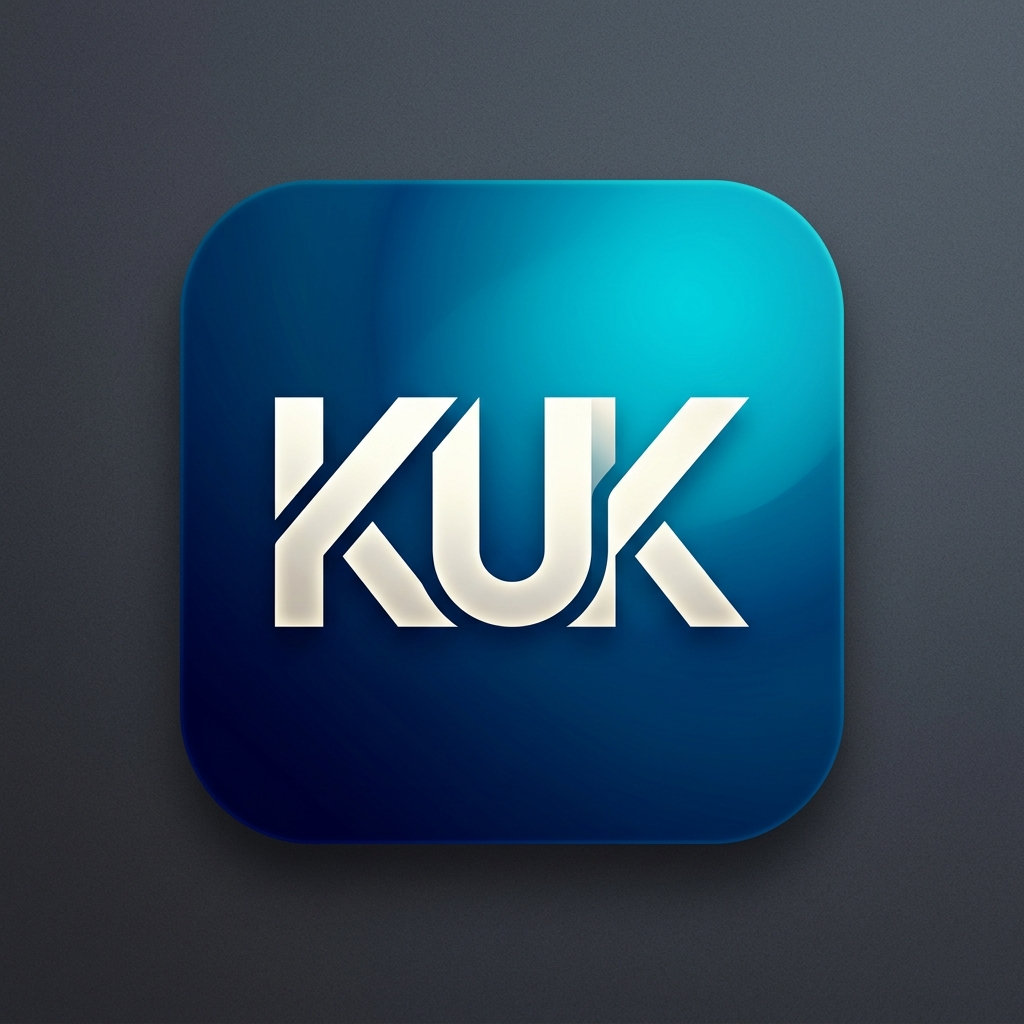
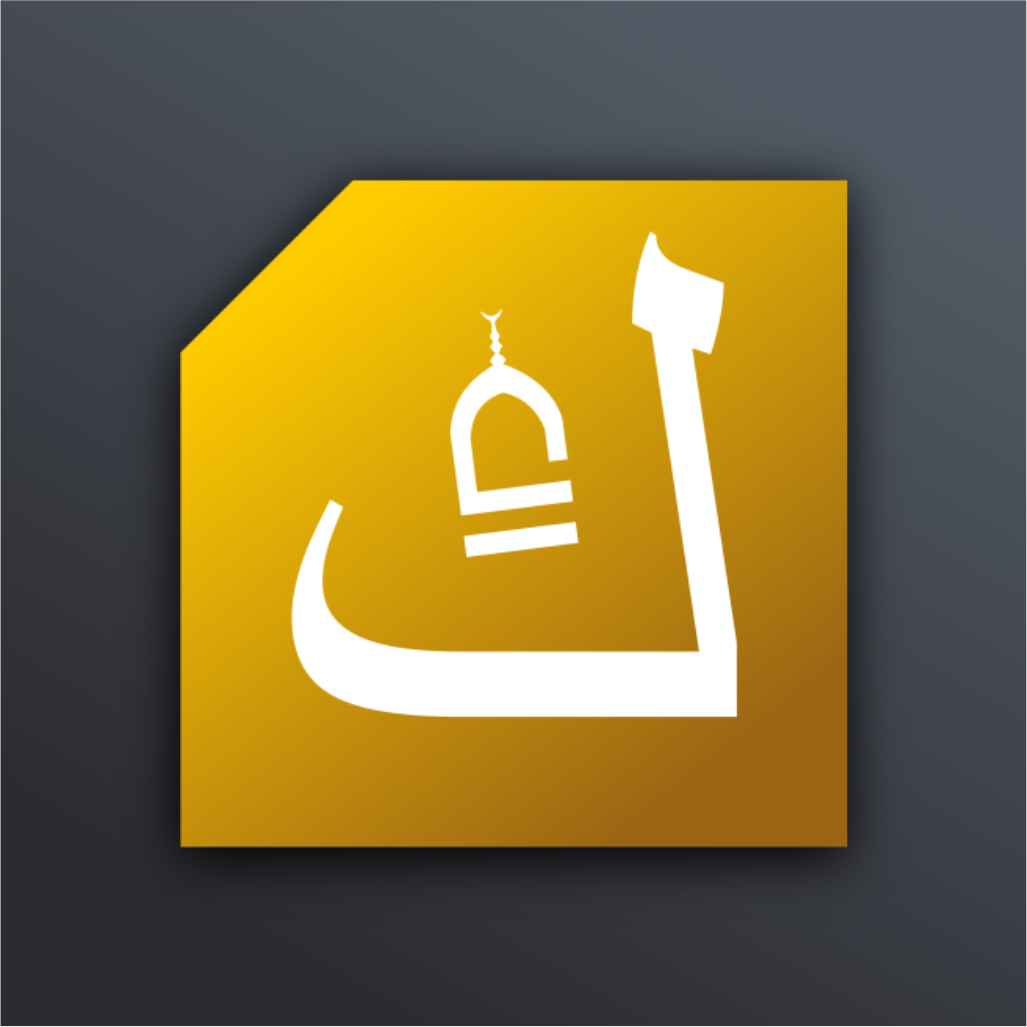
update apk

diff --git a/dashboard/index.html b/dashboard/index.html
@@ -2052,7 +2052,13 @@
                 style="width:60px;text-align:center;padding:6px;border-radius:6px;border:1px solid var(--border);font-size:13px;"
                 onchange="quickSaveAbsen('${k.id}','${fM}','${fY}',this.value);calculatePayroll()">
             </td>
-            <td style="color:var(--text-muted);font-size:13px;">${d.bagian > 0 ? formatRupiah(d.bagian) : '-'}</td>
+            <td>
+              <input type="number" min="0" value="${d.bagian}"
+                style="width:90px;text-align:right;padding:6px;border-radius:6px;border:1px solid var(--border);font-size:13px;"
+                placeholder="0"
+                onchange="quickSaveBagian('${k.id}','${fM}','${fY}',this.value);calculatePayroll()"
+                title="Gaji Bagian (Rp)">
+            </td>
             <td style="color:var(--text-muted);font-size:13px;">${d.hadiah > 0 ? formatRupiah(d.hadiah) : '-'}</td>
             <td style="color:var(--text-muted);font-size:13px;">${d.tip > 0 ? formatRupiah(d.tip) : '-'}</td>
             <td style="color:var(--danger);font-size:13px;">${poin > 0 ? formatRupiah(potPoin)+' ('+poin+' pts)' : '-'}</td>
@@ -2069,6 +2075,12 @@
     function quickSaveAbsen(id, fM, fY, val) {
       const d = getGajiData(id, fM, fY);
       d.absen = Number(val) || 0;
+      saveGajiData(id, fM, fY, d);
+    }
+
+    function quickSaveBagian(id, fM, fY, val) {
+      const d = getGajiData(id, fM, fY);
+      d.bagian = Number(val) || 0;
       saveGajiData(id, fM, fY, d);
     }
 